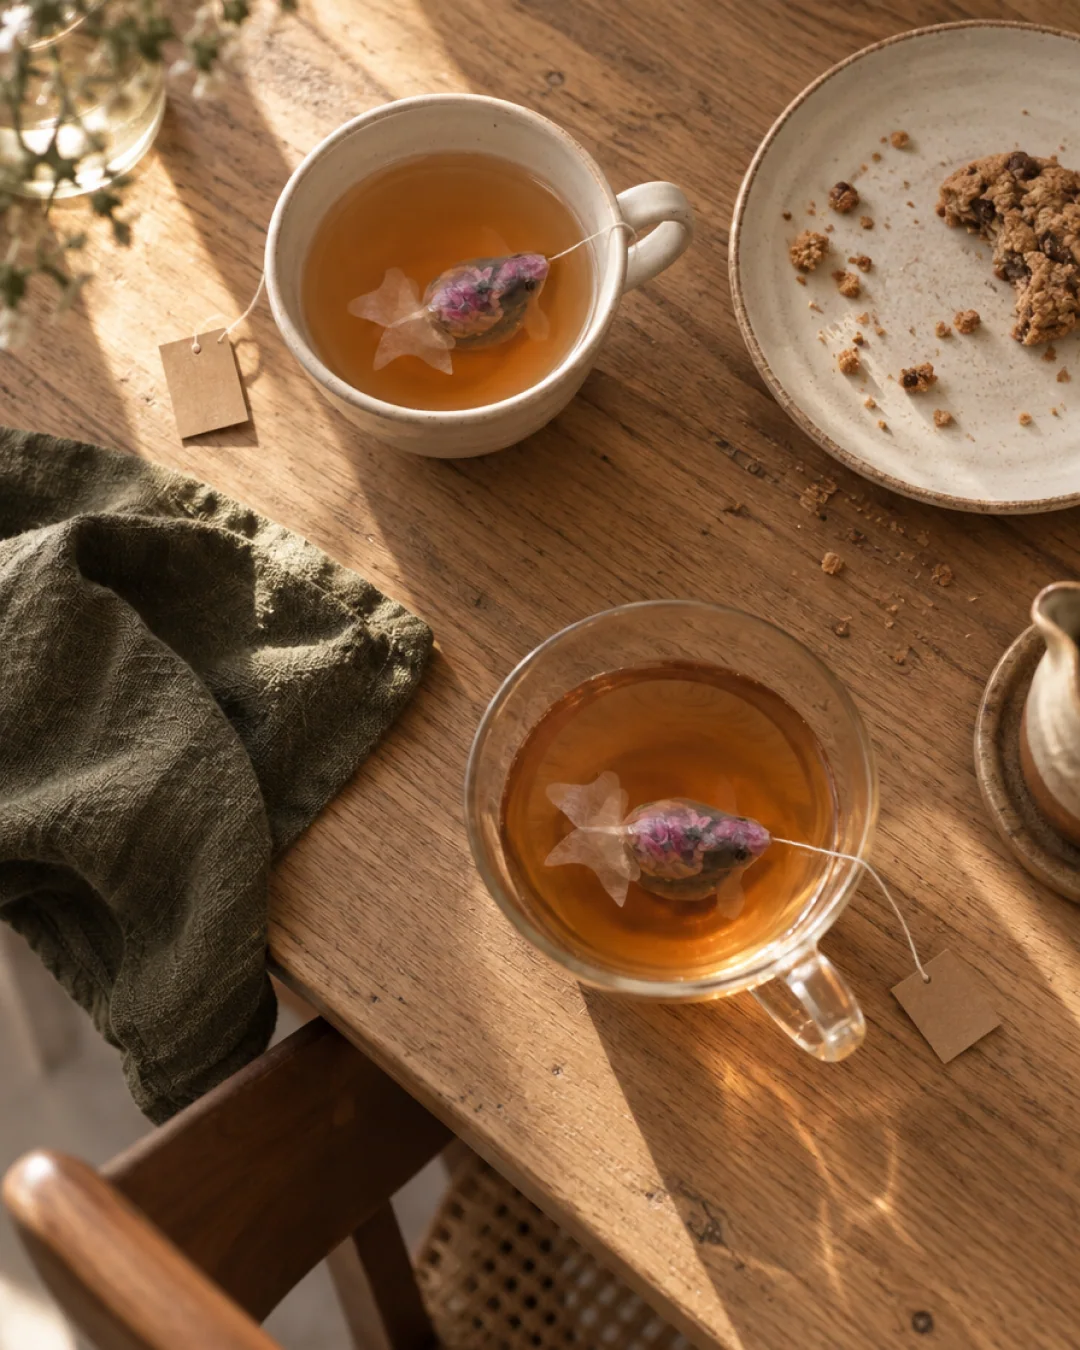
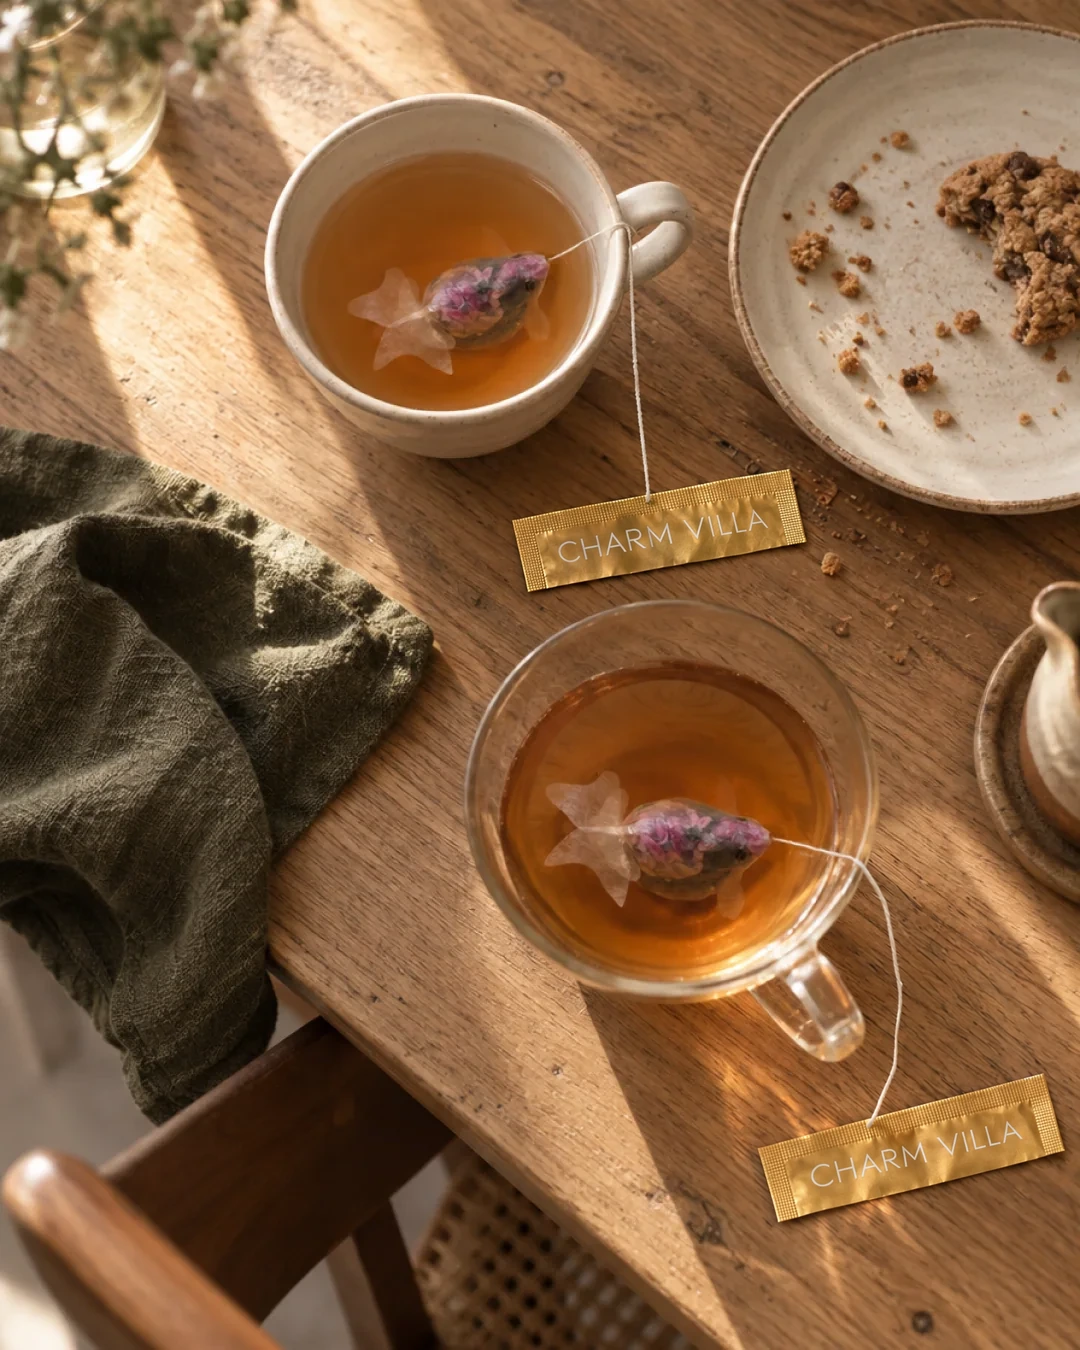
Dessert tray: fireplace-lounge scene; tea tags corrected on the Reunion paulownia (CV-0350), Full Moon (CV-0357) and journal 325 photos

Changed region(s): [[0.6722, 0.6222, 1.0, 0.9333], [0.4583, 0.1867, 0.7639, 0.4667], [0.1528, 0.2178, 0.2444, 0.3733]]

diff --git a/src/data/tea-gifts.ts b/src/data/tea-gifts.ts
@@ -65,7 +65,7 @@ const awardNote = { zh: "獲獎茶售價與供應依官方商品頁為準。", e
 export const teaGifts: TeaGift[] = [
   { officialId: 891, slug: "reunion-paper-gift-box", journalStory: 301, name: "團圓｜繽紛紙盒", english: "REUNION / PAPER BOX", series: "經典商品", pieces: 12, box: "織布盒蓋、繽紛紙盒（日本製）", dimensions: longBox, weight: 407, contents: reunion, scene: "CV-0348", description: "經緯紗線交織成盒蓋，繽紛紙盒收攏四款台灣茶。從打開禮盒到金魚入盞，把相聚的時間留給細看與分享。", variant: { group: "reunion-gift-box", label: "繽紛紙盒・12 入" },
     en: { name: "Reunion | Paper Box", description: "Warp and weft are woven into the lid, and a patterned paper box gathers four Taiwanese teas. From opening the box to the goldfish entering the cup, the time of a gathering is given to looking closely and to sharing." } },
-  { officialId: 64, slug: "reunion-paulownia-gift-box", journalStory: 308, name: "團圓｜桐木木盒", english: "REUNION / PAULOWNIA BOX", series: "經典商品", pieces: 12, box: wood, dimensions: longBox, weight: 407, contents: reunion, scene: "CV-0350", description: "織布的經緯與桐木的紋理，在一只盒上相接。四款台灣茶各自成形，讓一份茶禮，也成為值得收藏的日常物件。", variant: { group: "reunion-gift-box", label: "桐木木盒・12 入" },
+  { officialId: 64, slug: "reunion-paulownia-gift-box", journalStory: 308, name: "團圓｜桐木木盒", english: "REUNION / PAULOWNIA BOX", series: "經典商品", pieces: 12, box: wood, dimensions: longBox, weight: 407, contents: reunion, sceneFile: "CV-0350-tag2.webp" /* the brand's CV-0350 with the real gold foil tag (2026-10-05) */, description: "織布的經緯與桐木的紋理，在一只盒上相接。四款台灣茶各自成形，讓一份茶禮，也成為值得收藏的日常物件。", variant: { group: "reunion-gift-box", label: "桐木木盒・12 入" },
     en: { name: "Reunion | Paulownia Box", description: "The weave of the fabric and the grain of paulownia meet on a single box. Four Taiwanese teas each take their own form, making a gift of tea an everyday object worth keeping." } },
   { officialId: 954, slug: "year-of-plenty-gift-box", journalStory: 319, name: "年年有魚", english: "ABUNDANCE & PROSPERITY", series: "經典商品", pieces: 18, box: wood, dimensions: squareBox, weight: 400, contents: eighteen, sceneFile: "CV-0356-tag2.webp" /* the brand's CV-0356 with the real gold foil tag (2026-10-05) */, description: "紅色織面上，魚形與紋樣相互呼應。十八尾小金魚收在桐木盒中，把年節的祝福帶到下一次共飲的茶席。",
     en: { name: "Abundance & Prosperity", description: "Eighteen Goldfish Tea Bags: nine Rose Oolong Tea, plus three each of Ruby Black Tea, Jin Xuan Tea and Oriental Beauty Tea.", summary: "18 Goldfish Tea Bags · Four-tea assortment" } },
@@ -93,7 +93,7 @@ export const teaGifts: TeaGift[] = [
     en: { name: "Sapphire Wings", description: "Eighteen Goldfish Tea Bags of Second Prize Oriental Beauty Tea. Limited availability; crafted upon pre-order. Prices are adjusted according to official tea-competition pricing.", note: "Sold out for now. A rare piece, made after it is ordered; the price follows the official price of each tea competition (held twice a year).", summary: "18 Goldfish Tea Bags · Second Prize Oriental Beauty Tea" } },
   { officialId: 1072, slug: "small-moon-tea-gift-box", sceneFile: "scene-small-moon-tea-gift-box.webp", name: "小鮮月禮盒｜純茶包", english: "SMALL MOON / TEA", series: "2026 中秋節限定商品", pieces: 6, box: "紙盒", dimensions: smallBox, weight: 99, contents: [count(rose, 3), count(honey, 3)], description: "中秋的心意，收在六尾小金魚之間。玫瑰烏龍茶與玫瑰蜜香紅茶各三入，讓相聚從打開禮盒、注入一杯熱水開始。",
     en: { name: "Small Moon Gift Box | Tea Only", description: "A Mid-Autumn gesture kept among six goldfish: three of Rose Oolong Tea and three of Rose Honey Black Tea. The gathering begins with opening the box and pouring a cup of hot water." } },
-  { officialId: 994, slug: "full-moon-tea-gift-box", journalStory: 301, name: "大盈月禮盒｜純茶包", english: "FULL MOON / TEA", series: "2026 中秋節限定商品", pieces: 18, box: wood, dimensions: squareBox, weight: 400, contents: eighteen, scene: "CV-0357", description: "花鳥與枝葉鋪展在織布盒蓋上，桐木盒收藏十八尾小金魚。從盒上的一幅風景，到杯中的一段茶時，讓團聚與欣賞一同發生。", note: "本款為純茶包禮盒，不含茶點與茶具；緞帶顏色隨機出貨。",
+  { officialId: 994, slug: "full-moon-tea-gift-box", journalStory: 301, name: "大盈月禮盒｜純茶包", english: "FULL MOON / TEA", series: "2026 中秋節限定商品", pieces: 18, box: wood, dimensions: squareBox, weight: 400, contents: eighteen, sceneFile: "CV-0357-tag2.webp" /* the brand's CV-0357 with the real gold foil tag (2026-10-05) */, description: "花鳥與枝葉鋪展在織布盒蓋上，桐木盒收藏十八尾小金魚。從盒上的一幅風景，到杯中的一段茶時，讓團聚與欣賞一同發生。", note: "本款為純茶包禮盒，不含茶點與茶具；緞帶顏色隨機出貨。",
     en: { name: "Full Moon Gift Box | Tea Only", description: "Flowers, birds and branches spread across the woven lid, and a paulownia box keeps eighteen goldfish. From the scenery on the box to the tea time in the cup, reunion and appreciation happen together.", note: "This is a tea-only gift box; sweets and teaware are not included. The ribbon colour is chosen at random." } },
 ];
 

diff --git a/src/data/catalog.ts b/src/data/catalog.ts
@@ -298,6 +298,8 @@ const buildCatalog = (lang: Locale) => {
   // the twin-earring portrait on a mustard sofa (user 2026-10-05: 「加入對應的商品圖」): the twin earrings, the blue bag and the cloud coaster are all in it
   for (const slug of ["twin-goldfish-earrings", "braided-leather-bag-blue", "cloud-coaster"]) sceneExtra[slug] = [...(sceneExtra[slug] ?? []), site("scene-twin-earring-profile-mustard-sofa.webp", t("金髮女子靠在芥末黃毛圈沙發上的側臉，耳垂上戴著雙星小金魚耳環；小邊桌上雲朵杯墊承著一杯小金魚茶，旁邊是藍色編織提把皮革包", "A blonde woman in profile on a mustard bouclé sofa, wearing the Twin Goldfish Earrings; on a side table a glass of goldfish tea on a Cloud Coaster beside the blue Braided Leather Bag"), 1792, 2240)];
   // a second dessert-tray scene: a desert lounge with a larger marble table (user 2026-10-05)
+  // a third: a fireplace lounge at night, after the user's hotel afternoon-tea references (2026-10-05); flutes, teapot and jars removed, the tray at true size
+  sceneExtra["prosperity-dessert-stand"] = [...(sceneExtra["prosperity-dessert-stand"] ?? []), site("scene-dessert-stand-fireplace-lounge.webp", t("夜晚的酒廊，大理石層架與壁爐火光前，深色桌上的豐盛點心盤擺著幾樣精緻小點心，旁邊一杯紅茶、巧克力與閃電泡芙", "A lounge at night, backlit marble shelves and a fire behind: on a dark table the Abundance Dessert Tray with a few refined petits fours, a cup of tea, chocolates and an éclair"), 1792, 2240)];
   sceneExtra["prosperity-dessert-stand"] = [...(sceneExtra["prosperity-dessert-stand"] ?? []), site("scene-dessert-stand-marble-desert-lounge.webp", t("落地玻璃窗外是陽光下的沙漠與金合歡樹，暖白大理石圓桌上的豐盛點心盤擺著幾樣小點心，旁邊是玻璃茶壺與白瓷茶杯，前景是干邑色皮椅", "Beyond a glass wall, a sunlit desert and an acacia; on a round warm-white marble table the Abundance Dessert Tray with a few petits fours, a glass teapot and a white cup, cognac leather chairs in front"), 1792, 2240)];
   // the lounge scene shows the Reunion paulownia box beside the goldfish tea (2026-10-05)
   sceneExtra["reunion-paulownia-gift-box"] = [...(sceneExtra["reunion-paulownia-gift-box"] ?? []), site("scene-olive-mustard-lounge-pink-bag-tea.webp", t("灰褐色客廳裡，粉紅色編織提把皮革包放在橄欖綠毛圈扶手椅上，胡桃木茶几上有一杯小金魚茶與團圓桐木木盒，右邊芥末黃躺椅與地毯上灑著窗格光影", "In a taupe living room, the pink Braided Leather Bag on an olive bouclé armchair; on a walnut coffee table a glass of goldfish tea and the Reunion paulownia box; window light falls across a mustard lounge chair and the rug"), 1792, 2240)];
